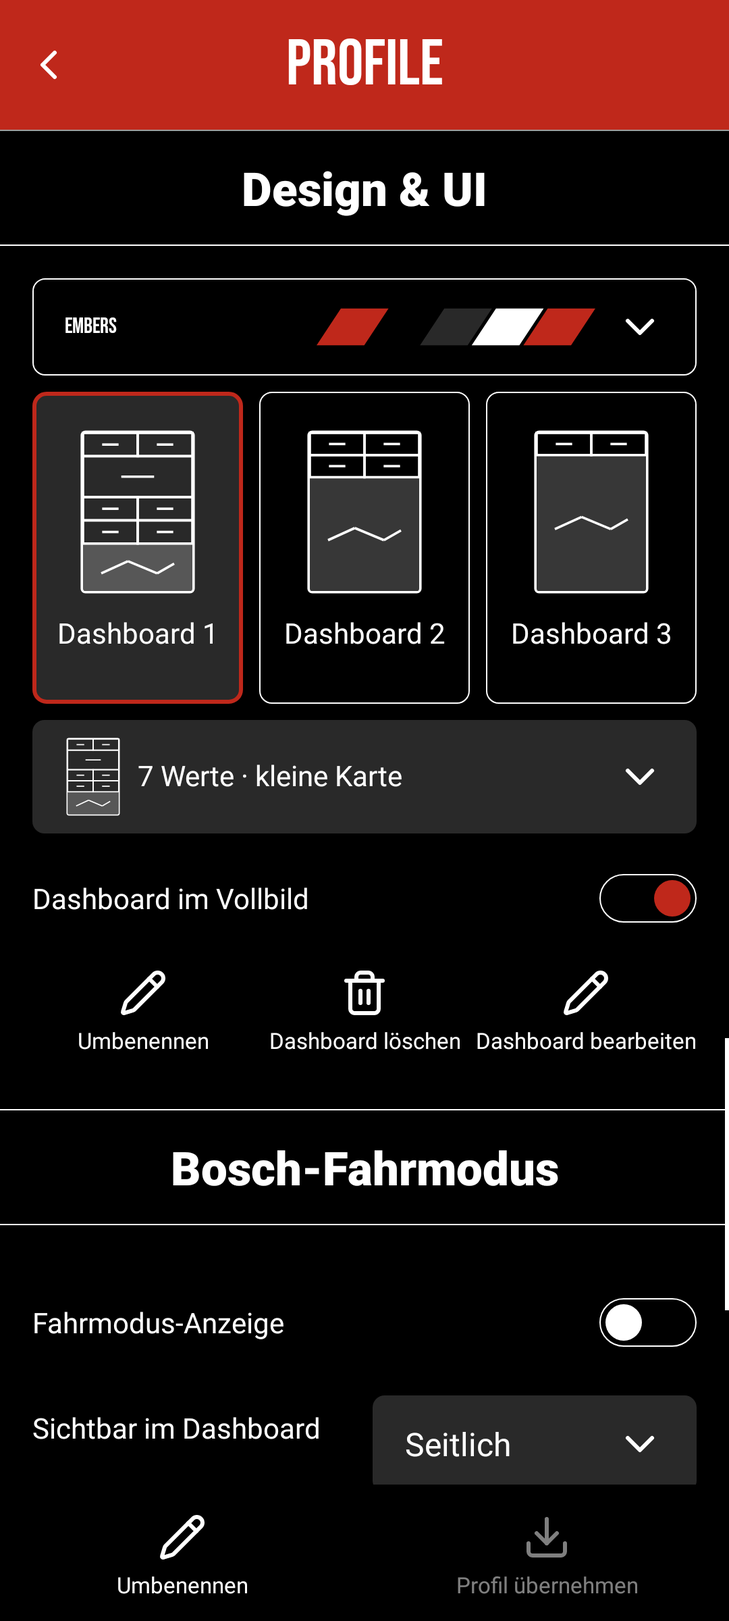
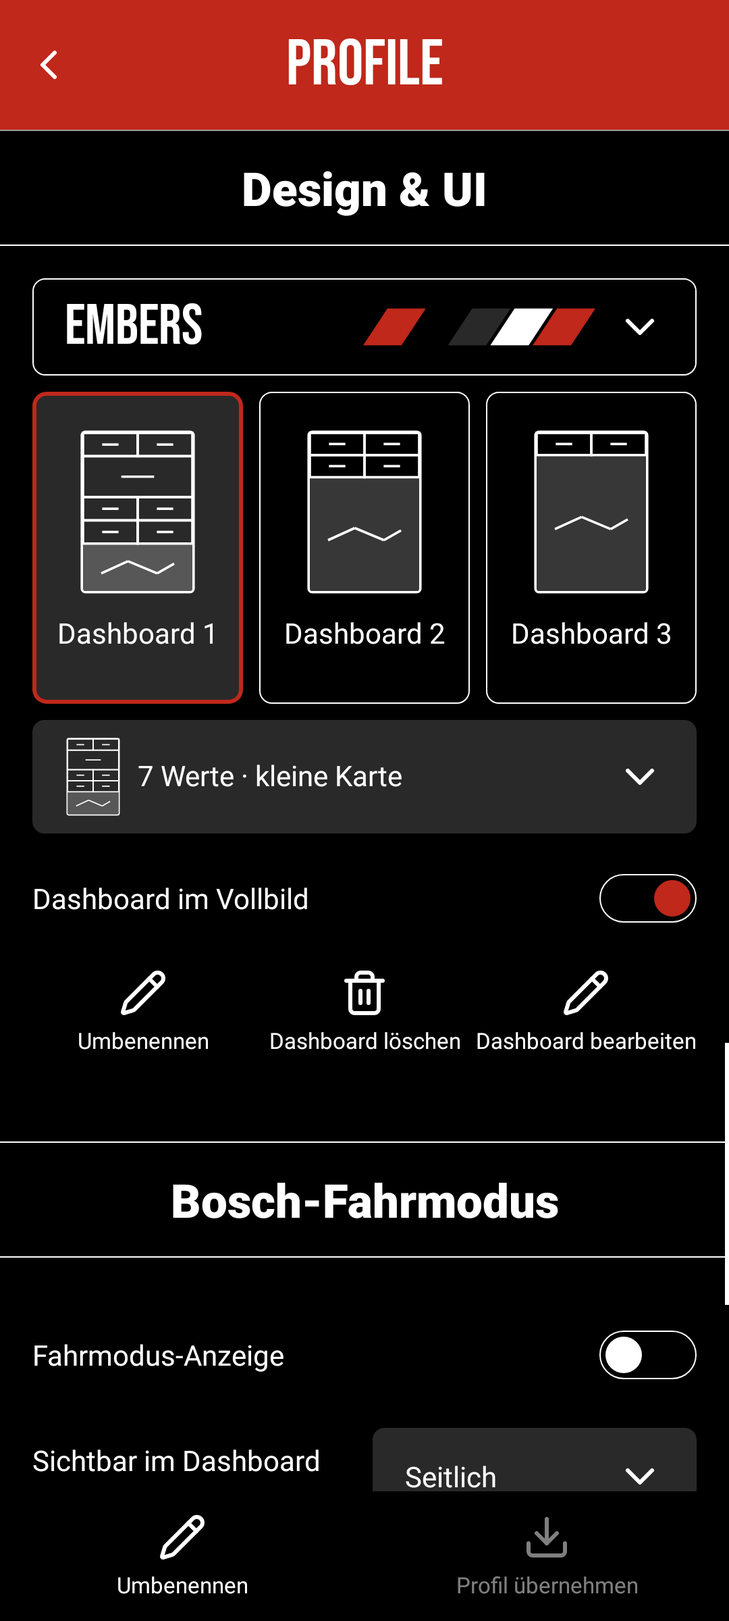
Align sensor controls and unify profile typography and section spacing

diff --git a/app/src/main/java/de/bcycle/app/BikesView.kt b/app/src/main/java/de/bcycle/app/BikesView.kt
@@ -136,7 +136,7 @@ internal class BikesView(context: Context, private val runtime: RideRuntime,
             }
             setSelection(profile.type.ordinal)
         }
-        BicycleDialogStyle.spinner(typeChoice,themes) { label,color ->
+        BicycleDialogStyle.spinner(typeChoice,themes,BicycleDesign.profileDropdownSp) { label,color ->
             val type=BikeType.entries.first { context.getString(it.label)==label }
             android.text.SpannableString("\uFFFC $label").apply {
                 val icon=BicycleIcons.drawable(context,BikeTypeIcons.forType(type),color).apply { setBounds(0,0,dp(BicycleDesign.iconSize),dp(BicycleDesign.iconSize)) }
@@ -165,7 +165,7 @@ internal class BikesView(context: Context, private val runtime: RideRuntime,
             adapter=ArrayAdapter(context,android.R.layout.simple_spinner_dropdown_item,BikeCategory.entries.map { context.getString(it.label) })
             setSelection(profile.category.ordinal)
         }
-        BicycleDialogStyle.spinner(category,themes);addView(category,LayoutParams(-1,dp(BicycleDesign.touchSize)))
+        BicycleDialogStyle.spinner(category,themes,BicycleDesign.profileDropdownSp);addView(category,LayoutParams(-1,dp(BicycleDesign.touchSize)))
         category.onItemSelectedListener=object : AdapterView.OnItemSelectedListener {
             override fun onNothingSelected(parent: AdapterView<*>?) = Unit
             override fun onItemSelected(parent: AdapterView<*>?,v: View?,position: Int,id: Long) {
@@ -201,10 +201,13 @@ internal class BikesView(context: Context, private val runtime: RideRuntime,
         addView(searchStatus,LayoutParams(-1,-2))
         searchResults=LinearLayout(context).apply { orientation=VERTICAL;tag="bike_scan_results" }
         addView(searchResults,LayoutParams(-1,-2))
+        val sensorList=LinearLayout(context).apply { orientation=VERTICAL;tag="bike_sensor_list" }
+        addView(sensorList,LayoutParams(-1,-2))
         profile.type.sensors.forEach { sensor ->
-            addView(BicycleComponents.sectionDivider(context,themes))
+            sensorList.addView(BicycleComponents.sectionDivider(context,themes))
             val toggle=Switch(context).apply {
                 tag="bike_sensor_${sensor.name}";setText(sensor.label);isEnabled=sensor.supported
+                gravity=Gravity.START or Gravity.CENTER_VERTICAL
                 isChecked=when(sensor) { BikeSensor.GPS->runtime.gpsEnabled;BikeSensor.EBIKE->runtime.bikeEnabled;BikeSensor.HEART->runtime.heartEnabled;BikeSensor.TRAINER->runtime.trainerEnabled;else->false }
                 setOnCheckedChangeListener { _,enabled ->
                     if(binding || runtime.bikes.activeSlot!=slot) return@setOnCheckedChangeListener
@@ -234,12 +237,12 @@ internal class BikesView(context: Context, private val runtime: RideRuntime,
                 tag="bike_sensor_expand_${sensor.name}";rotation=if(sensor in expandedSensors) 180f else 0f
                 stateDescription=context.getString(if(sensor in expandedSensors) R.string.zone_expanded else R.string.zone_collapsed)
             }
-            addView(LinearLayout(context).apply {
-                gravity=Gravity.CENTER_VERTICAL
-                addView(toggle,LayoutParams(0,-2,1f))
+            sensorList.addView(LinearLayout(context).apply {
+                tag=BicycleDesign.inlineControlRowTag;gravity=Gravity.CENTER_VERTICAL
+                addView(toggle,LayoutParams(0,-1,1f))
                 addView(expand,LayoutParams(dp(BicycleDesign.touchSize),dp(BicycleDesign.touchSize)).apply { marginStart=dp(BicycleDesign.controlGap) })
-            },LayoutParams(-1,-2))
-            addView(details,LayoutParams(-1,-2))
+            },LayoutParams(-1,dp(BicycleDesign.sectionHeaderMinHeight)+2*BicycleDesign.linePixels(context,BicycleDesign.sectionRuleDp)))
+            sensorList.addView(details,LayoutParams(-1,-2))
             if(sensor!=BikeSensor.GPS) {
                 val device=BicycleComponents.text(context,themes,"");deviceNames[sensor]=device;details.addView(device,LayoutParams(-1,-2))
                 val battery=BicycleComponents.text(context,themes,"");batteries[sensor]=battery;details.addView(battery,LayoutParams(-1,-2))

diff --git a/app/src/test/java/de/bcycle/app/ProfilesTest.kt b/app/src/test/java/de/bcycle/app/ProfilesTest.kt
@@ -2,6 +2,7 @@ package de.bcycle.app
 
 import android.os.Looper
 import android.view.View
+import android.view.ViewGroup
 import android.widget.*
 import org.junit.Assert.*
 import org.junit.Test
@@ -168,6 +169,42 @@ class ProfilesTest {
                 assertEquals(LinearLayout.HORIZONTAL,row.orientation)
                 assertEquals(android.graphics.Typeface.DEFAULT,(row.getChildAt(0) as TextView).typeface)
             }
+            fun layout() {
+                root.measure(View.MeasureSpec.makeMeasureSpec(1080,View.MeasureSpec.EXACTLY),View.MeasureSpec.makeMeasureSpec(2400,View.MeasureSpec.EXACTLY))
+                root.layout(0,0,1080,2400)
+                Shadows.shadowOf(Looper.getMainLooper()).idle()
+            }
+            fun top(v:View):Int { var y=v.top;var parent=v.parent;while(parent is View) { y+=parent.top;parent=parent.parent };return y }
+            fun verifySensorGeometry() {
+                layout()
+                val list=root.findViewWithTag<ViewGroup>("bike_sensor_list")
+                val rows=testDescendants(list).filterIsInstance<LinearLayout>().filter { it.tag==BicycleDesign.inlineControlRowTag }
+                val sensorHeading=testDescendants(root).filterIsInstance<BicycleSectionHeader>().single { it.contentDescription==a.getString(R.string.bikes_sensors) }
+                for(row in rows) {
+                    assertEquals(sensorHeading.height,row.height)
+                    for(i in 0 until row.childCount) {
+                        val child=row.getChildAt(i)
+                        assertEquals(row.height/2f,child.top+child.height/2f,1f)
+                        assertEquals(0,(child.layoutParams as LinearLayout.LayoutParams).topMargin)
+                    }
+                }
+                val next=testDescendants(root).filterIsInstance<BicycleSectionHeader>().filter { top(it)>=top(list)+list.height }.minBy { top(it) }
+                assertEquals(BicycleDesign.dp(a,BicycleDesign.sectionEndGap),top(next)-top(list)-list.height)
+                for((left,right) in rows.zipWithNext()) assertTrue(top(right)-top(left)-left.height<BicycleDesign.dp(a,BicycleDesign.sectionEndGap))
+            }
+            verifySensorGeometry()
+            root.findViewWithTag<View>("bike_sensor_expand_HEART").performClick();verifySensorGeometry()
+            root.findViewWithTag<View>("bike_sensor_expand_HEART").performClick();verifySensorGeometry()
+            testDescendants(root).filterIsInstance<Spinner>().forEach { spinner ->
+                val label=spinner.adapter.getView(spinner.selectedItemPosition,null,spinner) as TextView
+                assertEquals(android.util.TypedValue.applyDimension(android.util.TypedValue.COMPLEX_UNIT_SP,BicycleDesign.bodySp,a.resources.displayMetrics),label.textSize,.01f)
+            }
+            val scroll=testDescendants(root).filterIsInstance<BicycleStickyScrollView>().single()
+            val sensorHeading=testDescendants(root).filterIsInstance<BicycleSectionHeader>().single { it.contentDescription==a.getString(R.string.bikes_sensors) }
+            scroll.scrollTo(0,top(sensorHeading)-top(scroll))
+            val bitmap=android.graphics.Bitmap.createBitmap(root.width,root.height,android.graphics.Bitmap.Config.ARGB_8888)
+            root.draw(android.graphics.Canvas(bitmap))
+            java.io.File("/tmp/bcycle-profile-sensor-alignment.png").outputStream().use { bitmap.compress(android.graphics.Bitmap.CompressFormat.PNG,100,it) };bitmap.recycle()
             val placement=root.findViewWithTag<Spinner>("mode_glow_placement")
             assertEquals(a.getString(R.string.ui_glow_visible),((placement.parent as LinearLayout).getChildAt(0) as TextView).text.toString())
         } finally { host.pause().stop().destroy() }

diff --git a/app/src/main/java/de/bcycle/app/MainActivity.kt b/app/src/main/java/de/bcycle/app/MainActivity.kt
@@ -517,6 +517,7 @@ class MainActivity : Activity() {
                 setSelection(if (chosen == bikeId) 0 else 1)
                 id=View.generateViewId();caption.labelFor=id
             }
+            BicycleDialogStyle.spinner(choice,runtime.themes,BicycleDesign.profileDropdownSp)
             row.addView(choice,LinearLayout.LayoutParams(0,-2,1f));root.addView(row)
             return choice
         }
@@ -792,7 +793,7 @@ class MainActivity : Activity() {
             tag="mode_glow_placement";id=View.generateViewId();title.labelFor=id
             adapter=ArrayAdapter(settingsContext,android.R.layout.simple_spinner_dropdown_item,ModeGlowPlacement.entries.map { getString(it.label) })
             setSelection(ModeGlowSettings.placement(preferences).ordinal)
-            BicycleDialogStyle.spinner(this,runtime.themes)
+            BicycleDialogStyle.spinner(this,runtime.themes,BicycleDesign.profileDropdownSp)
             observeSettings(this) {
                 if(slot!=runtime.bikes.activeSlot || revision!=runtime.profileRevision || !root.isAttachedToWindow) return@observeSettings
                 preferences.edit().putString(ModeGlowSettings.placementKey,ModeGlowPlacement.entries[selectedItemPosition].name).apply();render()
@@ -824,6 +825,7 @@ class MainActivity : Activity() {
             adapter = ArrayAdapter(settingsContext, android.R.layout.simple_spinner_dropdown_item, MapSource.entries.map { it.label(this@MainActivity) })
             setSelection(MapSource.decode(preferences.getString("mapSource", null)).ordinal); root.addView(this)
         }
+        BicycleDialogStyle.spinner(source,runtime.themes,BicycleDesign.profileDropdownSp)
         val keyRow=LinearLayout(settingsContext).apply { orientation=LinearLayout.VERTICAL;tag="map_provider_key_row" }
         keyRow.addView(label(getString(R.string.map_thunderforest_key)))
         val providerKey=BicycleComponents.input(settingsContext,runtime.themes).apply {

diff --git a/app/src/main/java/de/bcycle/app/BicycleContentSpacing.kt b/app/src/main/java/de/bcycle/app/BicycleContentSpacing.kt
@@ -35,14 +35,29 @@ internal object BicycleContentSpacing {
                 if(lp!=null && (lp.topMargin!=0 || lp.bottomMargin!=0)) { lp.topMargin=0;lp.bottomMargin=0;child.layoutParams=lp }
                 fun gap(v:View?,before:Boolean) {
                     val margins=v?.layoutParams as? ViewGroup.MarginLayoutParams ?: return
-                    val size=BicycleDesign.dp(v.context,BicycleDesign.sectionContentGap)
+                    val size=BicycleDesign.dp(v.context,if(before) BicycleDesign.sectionEndGap else BicycleDesign.sectionContentGap)
                     if(before && margins.bottomMargin!=size) { margins.bottomMargin=size;v.layoutParams=margins }
                     if(!before && margins.topMargin!=size) { margins.topMargin=size;v.layoutParams=margins }
                 }
-                gap(visible.getOrNull(index-1)?.takeUnless { it is BicycleSectionHeader },true)
+                gap(previousContent(child,view)?.takeUnless { it is BicycleSectionHeader },true)
                 gap(visible.getOrNull(index+1)?.takeUnless { it is BicycleSectionHeader },false)
             } }
         }
+    }
+    /** A section can start inside a wrapper, e.g. FIT after the complete sensor list. */
+    private fun previousContent(header:View,root:View):View? {
+        var current=header
+        while(current!==root) {
+            val parent=current.parent as? LinearLayout ?: return null
+            if(parent.orientation!=LinearLayout.VERTICAL) return null
+            val index=parent.indexOfChild(current)
+            for(i in index-1 downTo 0) {
+                val candidate=parent.getChildAt(i)
+                if(candidate.visibility!=View.GONE) return candidate
+            }
+            current=parent
+        }
+        return null
     }
     private fun descendants(v:View):Sequence<View> = sequence {
         yield(v);if(v is ViewGroup) for(i in 0 until v.childCount) yieldAll(descendants(v.getChildAt(i)))

diff --git a/app/src/test/java/de/bcycle/app/ContentSpacingTest.kt b/app/src/test/java/de/bcycle/app/ContentSpacingTest.kt
@@ -32,11 +32,24 @@ class ContentSpacingTest {
         for(i in 0 until body.childCount) {
             val child=body.getChildAt(i);val lp=child.layoutParams as LinearLayout.LayoutParams
             if(child is BicycleSectionHeader) { assertEquals(0,lp.topMargin);assertEquals(0,lp.bottomMargin) }
-            else { assertEquals(16,lp.topMargin);if(i<body.childCount-1) assertEquals(16,lp.bottomMargin) }
+            else { assertEquals(16,lp.topMargin);if(i<body.childCount-1) assertEquals(32,lp.bottomMargin) }
         }
         val ordinary=LinearLayout(c).apply { orientation=LinearLayout.VERTICAL;setPadding(0,3,0,0);addView(TextView(c));addView(ListView(c)) }
         BicycleContentSpacing.page(ordinary)
         assertEquals(16,ordinary.paddingTop);assertEquals(0,ordinary.getChildAt(1).paddingTop)
+    }
+    @Test fun nestedSectionStartsAfterTheEntireSensorListWithLargerGap() {
+        val body=LinearLayout(c).apply { orientation=LinearLayout.VERTICAL }
+        val sensors=LinearLayout(c).apply { orientation=LinearLayout.VERTICAL;addView(Switch(c));addView(Switch(c)) }
+        body.addView(sensors)
+        val fit=LinearLayout(c).apply { orientation=LinearLayout.VERTICAL }
+        BicycleForm.section(fit,themes,R.string.ui_recording_title)
+        fit.addView(Spinner(c))
+        body.addView(fit)
+        repeat(3) { BicycleContentSpacing.sections(body) }
+        assertEquals(32,(sensors.layoutParams as LinearLayout.LayoutParams).bottomMargin)
+        assertEquals(16,(fit.getChildAt(1).layoutParams as LinearLayout.LayoutParams).topMargin)
+        assertEquals(0,(fit.getChildAt(0).layoutParams as LinearLayout.LayoutParams).topMargin)
     }
     @Test fun centeredButtonsDrawIconsImmediatelyBeforeTheirTextInBothDirections() {
         for(direction in listOf(View.LAYOUT_DIRECTION_LTR,View.LAYOUT_DIRECTION_RTL)) {

diff --git a/app/src/main/java/de/bcycle/app/BicycleDesign.kt b/app/src/main/java/de/bcycle/app/BicycleDesign.kt
@@ -81,6 +81,9 @@ object BicycleDesign {
     const val sectionRuleDp = .75f
     const val pageContentGap = 16
     const val sectionContentGap = 16
+    const val sectionEndGap = 32
+    const val inlineControlRowTag = "bicycle_inline_control_row"
+    const val profileDropdownSp = bodySp
     const val profileAccordionRadius = 10
     const val profileAccordionHeaderHeight = 64
     const val profileAccordionLeadingWidth = 3
@@ -136,7 +139,7 @@ object BicycleDesign {
     const val themeTileHeight = 136
     const val themeNameHeight = 44
     const val themeNameSp = 14f
-    const val settingsThemeNameSp = themeNameSp * settingsNarrowScale
+    const val settingsThemeNameSp = analysisMetricSp
     const val themeSelectedBorder = 2
     fun dp(context: Context, value: Int) = (value * context.resources.displayMetrics.density).toInt()
 
@@ -172,6 +175,12 @@ object BicycleComponents {
         fun apply() {
             val margins=view.layoutParams as? ViewGroup.MarginLayoutParams ?: return
             val parent=view.parent as? LinearLayout
+            if(parent?.tag==BicycleDesign.inlineControlRowTag) {
+                if(margins.topMargin!=0 || margins.bottomMargin!=0) {
+                    margins.topMargin=0;margins.bottomMargin=0;view.requestLayout()
+                }
+                return
+            }
             val index=parent?.indexOfChild(view) ?: -1
             val preceding=if(parent!=null && index>0) (index-1 downTo 0).map(parent::getChildAt).firstOrNull { it.visibility!=View.GONE } else null
             val separated=parent?.orientation==LinearLayout.VERTICAL && preceding?.tag=="bicycle_section_divider"

diff --git a/app/src/main/java/de/bcycle/app/BicycleDialog.kt b/app/src/main/java/de/bcycle/app/BicycleDialog.kt
@@ -250,7 +250,7 @@ internal object BicycleDialogStyle {
         view.textSize=BicycleDesign.inputSp
         view.gravity=Gravity.START or Gravity.CENTER_VERTICAL
     }
-    fun spinner(view: Spinner, themes: ThemeManager, renderLabel: ((String, Int) -> CharSequence)? = null) {
+    fun spinner(view: Spinner, themes: ThemeManager, textSizeSp:Float=BicycleDesign.inputSp, renderLabel: ((String, Int) -> CharSequence)? = null) {
         BicycleComponents.controlSpacing(view)
         if (styled.put(view, true) != null) return
         view.minimumHeight = dp(view, BicycleDesign.touchSize)
@@ -275,7 +275,7 @@ internal object BicycleDialogStyle {
             private fun row(position: Int, recycled: View?, dropdown: Boolean): View =
                 ((recycled as? TextView) ?: BicycleComponents.text(view.context, themes, "").apply {
                     typeface = Typeface.DEFAULT; gravity = Gravity.CENTER_VERTICAL
-                    minHeight = dp(view, BicycleDesign.touchSize); textSize = BicycleDesign.inputSp
+                    minHeight = dp(view, BicycleDesign.touchSize); textSize = textSizeSp
                     BicycleComponents.bindTheme(this, themes) {
                         setTextColor(it.foreground); setBackgroundColor(if (dropdown) it.tertiary else Color.TRANSPARENT)
                         if (renderLabel != null && tag is String) text=renderLabel(tag as String,it.foreground)

diff --git a/app/src/main/java/de/bcycle/app/ThemePickerView.kt b/app/src/main/java/de/bcycle/app/ThemePickerView.kt
@@ -41,10 +41,10 @@ internal class ThemePickerView(context:Context,private val themes:ThemeManager):
             maxLines=1;ellipsize=android.text.TextUtils.TruncateAt.END
             importantForAccessibility=IMPORTANT_FOR_ACCESSIBILITY_NO
             BicycleComponents.bindTheme(this,themes) { setTextColor(it.foreground) }
-        },LayoutParams(0,-2,1f).apply { marginEnd=dp(BicycleDesign.controlGap) })
+        },LayoutParams(0,-2,1.2f).apply { marginEnd=dp(BicycleDesign.controlGap) })
         addView(ThemeSwatches(context).apply {
             colors=theme?.let(::palette) ?: intArrayOf(0xff333333.toInt(),0xff555555.toInt(),0xff777777.toInt(),0xffaaaaaa.toInt(),0xffdddddd.toInt())
-        },LayoutParams(0,dp(BicycleDesign.iconSize),1.2f))
+        },LayoutParams(0,dp(BicycleDesign.iconSize),1f))
         addView(ImageView(context).apply {
             importantForAccessibility=IMPORTANT_FOR_ACCESSIBILITY_NO
             BicycleComponents.bindTheme(this,themes) {

diff --git a/app/src/test/java/de/bcycle/app/ProfileAccordionTest.kt b/app/src/test/java/de/bcycle/app/ProfileAccordionTest.kt
@@ -125,7 +125,7 @@ class ProfileAccordionTest {
             assertNull(fixed.findViewWithTag<View>("dashboard_editor_open"))
             assertNotNull(root.findViewWithTag<View>("dashboard_inline_actions").findViewWithTag<View>("dashboard_editor_open"))
             val scroll=testDescendants(root).filterIsInstance<BicycleStickyScrollView>().single()
-            for((id,file) in listOf(R.string.ui_design_title to "design",R.string.ui_recording_title to "fit")) {
+            for((id,file) in listOf(R.string.ui_design_title to "design",R.string.ui_recording_title to "fit",R.string.bikes_sensors to "sensors")) {
                 val heading=categories.single { it.contentDescription==a.getString(id) }
                 scroll.scrollTo(0,0);measure(root,1080,2400)
                 scroll.scrollTo(0,top(heading,scroll))

diff --git a/AGENTS.md b/AGENTS.md
@@ -72,7 +72,7 @@ Aufnahmegrenzen: Live-Sensoranzeige darf außerhalb der Aufnahme laufen, App-Fah
 
 Bikes: ein bis sechs dynamische Profile über BikeProfileStore; erste Migration in Slot 0, bestehende aktive Runtime-/FIT-Preferences als Kompatibilitätsgrenze erhalten. Hauptmenüeintrag Profile (Bike-Icon); Einstellungen auf einer scrollenden Seite in den unten definierten Sticky-Abschnitten mit antippbarem Namen, Kategorie-Dropdown, Sensoren und separatem Sticky-Abschnitt „FIT-Aufzeichnung“. Hauptquellen-Auswahl ist direkt sichtbar; die zusätzlichen FIT-Felder stehen je Datenquelle in einem eigenen Accordion. Deren Offen-Zustand bleibt bei Profilwechsel in derselben Activity erhalten; FIT-Änderungen werden weiterhin sofort im jeweiligen Bike gespeichert. E-Bike und Indoor aktiv, normales Bike und separate Powermeter-Rolle vorbereitet. Profilwechsel bei Aufnahme/Speichern sperren; alte Links/Livewerte beim Wechsel entfernen. Disconnect bewahrt Zuordnung und blockiert automatische Wiederverbindung bis zur bewussten Verbindungsaktion. Sensoren anhand bestätigter BLE-Dienste zuordnen, nicht anhand von Namen. Details/Abgrenzung/Backup in docs/bicycle-profiles.md.
 
-Sticky-Kategorien sind opt-in über BicycleSectionHeader und BicycleStickyScrollView. Fahrer, Daten & Speicher und die Design-Abschnitte innerhalb der Profile verwenden 23 sp/900 Black, zentriert, SECONDARY als Seitenhintergrund, oben/unten 0,75 dp FOREGROUND, min. 56 dp und 12 dp Innenpadding. Keine äußeren Headerabstände, kein oberer Leerstreifen und kein Sticky-Schatten; aufeinanderfolgende Header berühren sich beim Scrollen. Sticky-Z bleibt über nativen Buttons, ohne Elevation-Schatten. Inhalte bekommen davor/danach zentral 16 dp über BicycleContentSpacing; kein doppeltes Addieren vorhandener Control-Abstände. Keine automatische Umstellung von Accordions. Sensor-Schalter auf Bikes verwenden normale Schaltertypografie. Auswahlrahmen von Kacheln bleiben aktiv ACCENT. Details: docs/sticky-sections.md und docs/ui-content-spacing.md.
+Sticky-Kategorien sind opt-in über BicycleSectionHeader und BicycleStickyScrollView. Fahrer, Daten & Speicher und die Design-Abschnitte innerhalb der Profile verwenden 23 sp/900 Black, zentriert, SECONDARY als Seitenhintergrund, oben/unten 0,75 dp FOREGROUND, min. 56 dp und 12 dp Innenpadding. Keine äußeren Headerabstände, kein oberer Leerstreifen und kein Sticky-Schatten; aufeinanderfolgende Header berühren sich beim Scrollen. Sticky-Z bleibt über nativen Buttons, ohne Elevation-Schatten. Inhalte bekommen danach (unter dem Header) 16 dp und davor (zum nachfolgenden Header) 32 dp über BicycleContentSpacing; kein doppeltes Addieren vorhandener Control-Abstände. Keine automatische Umstellung von Accordions. Sensor-Schalter auf Bikes verwenden normale Schaltertypografie. Auswahlrahmen von Kacheln bleiben aktiv ACCENT. Details: docs/sticky-sections.md und docs/ui-content-spacing.md.
 
 Formulare: BicycleForm.section und BicycleForm.numberRow/outlinedInput verwenden. Numerische Einstellungen auf Fahrer und Bikes stehen mit Beschriftung links, rechts Bebas-Neue-Wert in analysisMetricSp (28 sp), Einheit dahinter. Eingabehintergrund transparent, 0,75 dp TERTIARY als Rahmen; Zahlenbreite zentral formNumberWidth. WebDAV-Eingaben verwenden denselben Rahmen bei normaler Systemschrift und voller Textbreite. Geburtsdatum, Namenbearbeitung, Dropdowns und Karten bleiben bei ihrer jeweiligen Bedienform.
 
@@ -101,7 +101,7 @@ BLE-Status in Bikes: Anzahl unterschiedlicher tatsächlich empfangener Messwerta
 Für später vorgemerkt: zentrale BICYCLE-Strava-App mit Backend für Codeaustausch/Token-Erneuerung und einfachem „Mit Strava verbinden“ ohne persönliche API-Registrierung der Nutzer. Noch nicht umsetzen oder die aktuelle Anbindung entfernen. Details und erforderliche Strava-Freigaben in docs/cloud-activity-uploads.md, Abschnitt „Vorgemerkt: zentrale Strava-Anmeldung“.
 
 
-Seitenabstände: BicycleContentSpacing.page setzt vor dem ersten Inhalt insgesamt 16 dp, berücksichtigt vorhandene Control-Margins und entfernt zusätzliche äußere Wrapper-Insets. Erste Sticky-Kategorie beginnt direkt unter dem Seitenheader; deren Inhalt folgt mit 16 dp. BicycleContentSpacing.sections sichert 16 dp vor/nach Kategorieinhalten für Texte, Felder, Dropdowns, Buttons/Schalter, Accordions, Listen und Kachelgruppen. Control-Gap bleibt 8 dp. Header selbst haben keine Außenmargins. Inhaltspadding/Touchflächen innerhalb von Controls erhalten.
+Seitenabstände: BicycleContentSpacing.page setzt vor dem ersten Inhalt insgesamt 16 dp, berücksichtigt vorhandene Control-Margins und entfernt zusätzliche äußere Wrapper-Insets. Erste Sticky-Kategorie beginnt direkt unter dem Seitenheader; deren Inhalt folgt mit 16 dp. BicycleContentSpacing.sections sichert 16 dp nach einem Header und 32 dp vom Inhalt zum nachfolgenden Header für Texte, Felder, Dropdowns, Buttons/Schalter, Accordions, Listen und Kachelgruppen. Control-Gap bleibt 8 dp. Header selbst haben keine Außenmargins. Inhaltspadding/Touchflächen innerhalb von Controls erhalten.
 
 Textbuttons mit führendem Icon: BicycleDialogStyle.actionIcon/BicycleTextIcon verwenden. Icon unmittelbar vor dem Text mit 8 dp Abstand, bei zentrierten Buttons als gemeinsam zentrierte Gruppe; kein abgesetztes Icon am linken Buttonrand. Native Texte, Accessibility und Touchflächen erhalten. Links ausgerichtete Accordions behalten ihre Ausrichtung; fachliche Icon-only-Buttons und vertikale Aktionsfooter behalten ihre eigene Geometrie.
 
@@ -212,4 +212,6 @@ Fahrradbezogene Profile: Hauptmenü „Profile“ bündelt Bikes, Karten und Des
 
 Profilseite – aktueller Seitentest: Eine lange BicycleStickyScrollView ohne Haupt-Accordions. Oben Radkacheln, normaler antippbarer Name, Foto/Platzhalter immer 16:9 (CENTER_CROP für Fotos), Radtyp als Dropdown mit Bike/E-Bike/Indoor; bestehende Verfügbarkeit und Aufnahmesperre erhalten. Platzhalter ersetzt den Bildauswahlbutton und öffnet denselben Picker; Löschen stellt ihn bei unveränderter Höhe wieder her. Keine Header Bike/Radtyp. Sticky Header Sensoren/FIT-Aufzeichnung/Strecken-Aufzeichnung/Karten/Design & UI/Bosch-Fahrmodus/Trainingshilfe im großen Standardstil: SECONDARY, FOREGROUND-Linien oben/unten 0,75 dp, 23 sp/900 Black, Schrift FOREGROUND. Keine Header Theme/Dashboard-Layout/Fahrmodus-Anzeige und keine Fahrmodus-Erklärung innerhalb der Profilseite. Kein Trenner direkt nach Kartenauswahl. Sensorschalter verwenden normale Schaltertypografie. FIT-Quellgruppen bleiben graue Standard-Accordions. Dashboard bearbeiten als Inlineaktion im Dashboard-Bereich neben Dashboard-Umbenennen/-Löschen; Profilfooter nur Umbenennen/Übernehmen/Löschen. Daten, Profilkopie und Sensorzuordnungen unverändert lassen. Sensorzeilen zeigen Icon/Name/Schalter plus separaten Chevron. Details mit Status, Gerät, Akku, Disconnect und Entfernen standardmäßig eingeklappt; Schalten und Aufklappen unabhängig, Details-Zustand nur temporär in der Ansicht. Die archivierte Variante [Accordiontest](docs/accordiontest.md) ist eine dauerhafte Referenz, kein aktueller appweiter Standard.
 
-Einstellungsdarstellung: Schmale Bebas-Neue-Werte verwenden settingsMetricSp (21 sp statt 28 sp), Zonen-Einheiten settingsUnitSp, Theme-Namen settingsThemeNameSp; Faktor settingsNarrowScale=0,75 nur für entsprechende Einstellungsrollen, keine Änderung an Dashboard-/Fahrtauswertungswerten oder Fenstertiteln. Sticky-Titel FOREGROUND. FIT-Aufzeichnung enthält Hauptquellen Geschwindigkeit/Distanz als normale Titel plus Dropdown in einer Zeile; Strecken-Aufzeichnung enthält die bisherigen Feldgruppen in grauen Accordions. Bosch-Fahrmodus als eigener Sticky-Abschnitt unter Design & UI, Schalter und Zeile „Sichtbar im Dashboard“ plus Oben/Seitlich-Dropdown. ThemePickerView als vollbreites kompaktes Dropdown, Bebas-Namen und fünf schräge Farbfelder (PRIMARY, SECONDARY, TERTIARY, FOREGROUND, ACCENT), gleiche Darstellung im Popup; tatsächliche Themefarben verwenden, Reserviert deaktiviert, gewählte Zeile ACCENT-Kontur plus Haken. Keine Änderungen an Theme-Definitionen oder Profilpersistenz durch diesen UI-Umbau.
+Einstellungsdarstellung: Schmale Bebas-Neue-Werte verwenden settingsMetricSp (21 sp statt 28 sp), Zonen-Einheiten settingsUnitSp; Theme-Namen verwenden separat settingsThemeNameSp=28 sp. Faktor settingsNarrowScale=0,75 nur für entsprechende Einstellungsrollen, keine Änderung an Dashboard-/Fahrtauswertungswerten oder Fenstertiteln. Sticky-Titel FOREGROUND. FIT-Aufzeichnung enthält Hauptquellen Geschwindigkeit/Distanz als normale Titel plus Dropdown in einer Zeile; Strecken-Aufzeichnung enthält die bisherigen Feldgruppen in grauen Accordions. Bosch-Fahrmodus als eigener Sticky-Abschnitt unter Design & UI, Schalter und Zeile „Sichtbar im Dashboard“ plus Oben/Seitlich-Dropdown. ThemePickerView als vollbreites kompaktes Dropdown, Bebas-Namen und fünf schräge Farbfelder (PRIMARY, SECONDARY, TERTIARY, FOREGROUND, ACCENT), gleiche Darstellung im Popup; tatsächliche Themefarben verwenden, Reserviert deaktiviert, gewählte Zeile ACCENT-Kontur plus Haken. Keine Änderungen an Theme-Definitionen oder Profilpersistenz durch diesen UI-Umbau.
+
+Profil-Ausrichtung: Native Dropdowns auf der Profilseite verwenden profileDropdownSp=bodySp (14 sp), entsprechend den normalen Titeln daneben; andere Seiten behalten ihre Dropdown-Größe. Theme-Namen sind die Ausnahme: settingsThemeNameSp=analysisMetricSp (28 sp / Bebas Neue), gleich im geschlossenen Feld und Popup. Sensor-Kopfzeilen verwenden die Höhe eines einzeiligen Sticky Headers (sectionHeaderMinHeight plus beide Linien); Switch füllt diese Höhe, Chevron wird vertikal zentriert. Der opt-in inlineControlRowTag unterdrückt ausschließlich vertikale Formular-Margins innerhalb dieser Zeile. Sensoren stehen als ganze Liste zusammen; der 32-dp-Abschlussabstand gehört zur Liste und gilt bei geschlossenen und geöffneten Details sowie vor einem verschachtelten FIT-Header. Interne Trennerabstände bleiben erhalten und kleiner.

diff --git a/docs/ui-content-spacing.md b/docs/ui-content-spacing.md
@@ -1,16 +1,17 @@
 # Seiten, Kategorieabstände und Sensoridentität
 
-Stand: 16.10.2026. Native Kotlin-Views, ausschließlich Hochformat.
+Stand: 17.10.2026. Native Kotlin-Views, ausschließlich Hochformat.
 
 ## Zentrale Abstände
 
 BicycleDesign.pageContentGap und sectionContentGap: jeweils 16 dp.
+BicycleDesign.sectionEndGap: 32 dp vom Inhalt zum nächsten Sticky Header.
 BicycleDesign.controlGap: unverändert 8 dp zwischen Bedienelementen.
 BicycleContentSpacing.page wird im Fullscreen-Host auf den eigentlichen
 Seiteninhalt angewendet. Vorhandene äußere Wrapper-Innenabstände werden entfernt;
 Control-Margins werden in den Gesamtanfangsabstand einbezogen. Die Datenliste der Dashboard-Feldauswahl wächst vollständig innerhalb des gemeinsamen äußeren Scrollbereichs und ist kein eigener Seitenanfang.
 
-BicycleContentSpacing.sections gewährleistet 16 dp vor und nach Kategorieinhalten.
+BicycleContentSpacing.sections gewährleistet 16 dp nach einem Header und 32 dp vom Inhalt zum nächsten Header. Auch wenn dieser am Anfang eines verschachtelten Layouts steht, wird der Abstand am Ende der vorherigen Inhaltsgruppe gesetzt. Die Sensorliste bildet dafür eine gemeinsame Gruppe; interne Sensorabstände bleiben kleiner.
 Das gilt für Text, Eingaben, Dropdowns, Buttons/Schalter, Accordion-Controls,
 Listen und Kachelgruppen. Vorhandene Touchflächen und Innenabstände innerhalb
 der Elemente bleiben erhalten. Wiederholte Anwendung addiert keine Abstände.
@@ -53,13 +54,11 @@ Import höchstens 25 MiB; ImageDecoder berücksichtigt die Bildorientierung und
 verkleinert auf höchstens 1200 px längste Seite. Atomare WebP-Speicherung mit
 85 % Qualität. Fehlgeschlagene Übernahme ersetzt kein bestehendes Foto.
 Vorschau und Import im Hintergrund; kein dauerhafter Zugriff auf die Quelldatei.
-Bildfeld ist ohne Foto kompakt und wächst mit Foto auf 200 dp. Abgerundete Ecken
+Bildfeld und anklickbarer Platzhalter behalten immer dasselbe Format 16:9; Fotos werden mittig passend beschnitten. Abgerundete Ecken
 und Löschsymbol. Fotos sind derzeit nicht Bestandteil der manuellen Sicherung.
 
 Profilkacheln: Radtyp oberhalb des Symbols; Name darunter mit zwei reservierten
-Zeilen. FIT-Hauptquelle ist eine eigene Überschrift über der Erklärung;
-Auswahlüberschriften lauten Geschwindigkeit und Distanz. Eine horizontale
-Abschnittslinie trennt Aufzuzeichnende Werte ab.
+Zeilen. FIT-Aufzeichnung enthält Geschwindigkeit/Distanz als normale Titel mit Dropdown in einer Zeile; Strecken-Aufzeichnung enthält die Feldgruppen. Native Dropdown-Schriften auf der Profilseite: 14 sp, Theme-Namen dagegen 28 sp / Bebas Neue wie schmale Streckendetailwerte. Sensorzeilen sind so hoch wie ein einzeiliger Sticky Header; Schalter, Text und Chevron werden ohne zusätzliche vertikale Formular-Margins zentriert.
 
 Streckendetails: Datum und Wetter verwenden die normale Systemschrift mit
 rowTitleSp (16 sp). Wettergruppen umfassen jeweils das unmittelbar vorangestellte
